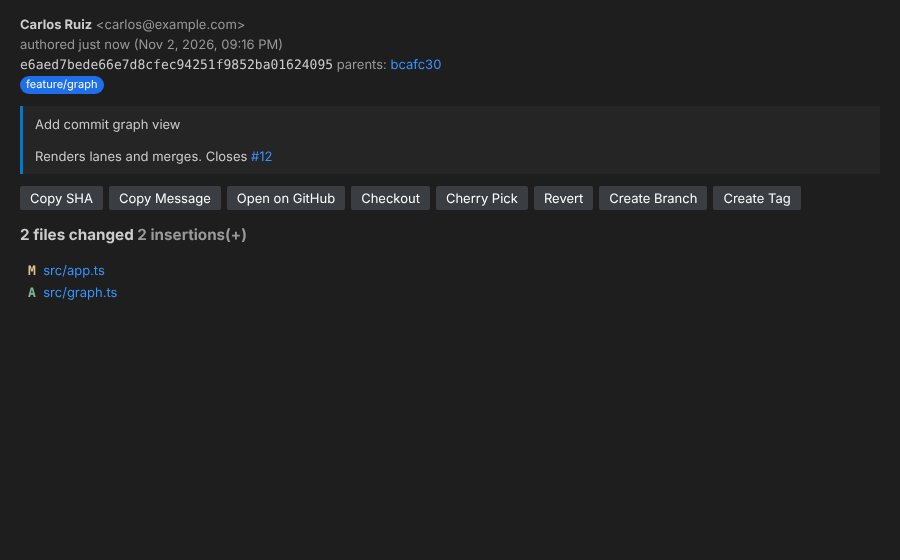
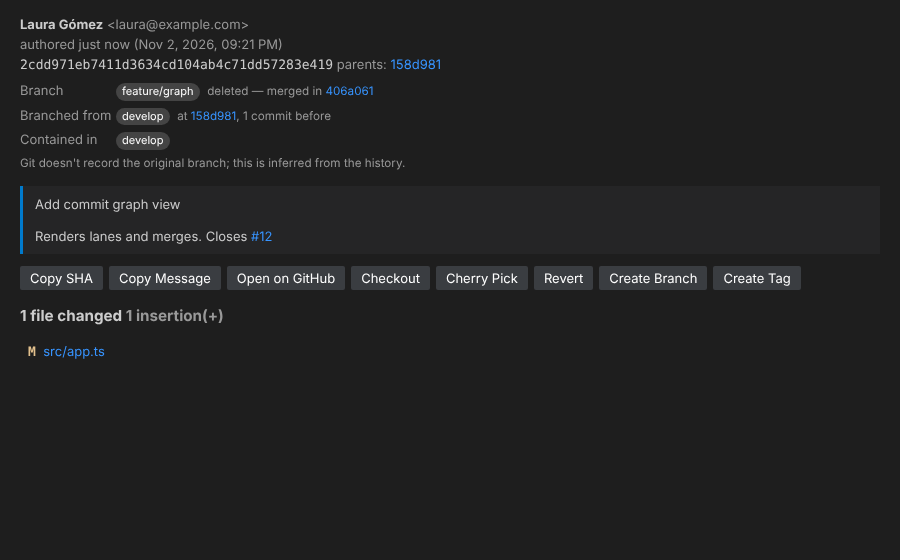
Show the branch a commit was made on and the branch it branched from
The commit details panel now shows, inferred from first-parent history:
the branch the commit was made on (recovering deleted branch names from
merge messages), the branch it branched from with the fork commit, and
all branches containing it. Base branches are configurable through
gitsight.baseBranches.

Claude-Session: https://claude.ai/code/session_01MnCBt8QwRY5VXLYsNptWFx

diff --git a/src/git/gitService.ts b/src/git/gitService.ts
@@ -227,6 +227,92 @@ export class Repository {
     return parseWorktrees(await this.exec(['worktree', 'list', '--porcelain']));
   }
 
+  /**
+   * Estimates which branch a commit was made on and which branch it was branched from.
+   * Git does not record this, so it is inferred from first-parent histories:
+   *  - a commit on a base branch's (main, develop…) first-parent chain was committed directly there;
+   *  - otherwise, the branches whose first-parent chain contains it are where it was made, and the
+   *    branch whose first-parent chain meets its ancestry closest is where that work branched from;
+   *  - if the branch was deleted after merging, its name is recovered from the merge commit message.
+   */
+  async branchOrigin(sha: string, baseBranches: string[] = DEFAULT_BASE_BRANCHES): Promise<BranchOrigin> {
+    const LIMIT = 20000;
+    const [locals, remotes] = await Promise.all([this.branches(false), this.branches(true)]);
+    const localNames = new Set(locals.map((b) => b.name));
+    const shortName = (b: Branch) => (b.remote ? b.name.substring(b.name.indexOf('/') + 1) : b.name);
+    const candidates = [...locals, ...remotes.filter((b) => !localNames.has(shortName(b)))].slice(0, 60);
+    const priority = (b: Branch) => {
+      const i = baseBranches.indexOf(shortName(b));
+      return i === -1 ? Number.MAX_SAFE_INTEGER : i;
+    };
+    const isBase = (b: Branch) => priority(b) !== Number.MAX_SAFE_INTEGER;
+    const byPriority = (a: Branch, b: Branch) => priority(a) - priority(b) || Number(b.remote === false) - Number(a.remote === false);
+
+    const firstParents = new Map<string, Set<string>>();
+    await Promise.all(
+      candidates.map(async (b) => {
+        const out = await this.exec(['rev-list', '--first-parent', `-n${LIMIT}`, b.name, '--']).catch(() => '');
+        firstParents.set(b.name, new Set(out.split('\n').filter(Boolean)));
+      }),
+    );
+    const ancestors = (await this.exec(['rev-list', '--topo-order', `-n${LIMIT}`, sha, '--'])).split('\n').filter(Boolean);
+    const containedIn = (await this.exec(['for-each-ref', '--contains', sha, '--format=%(refname)', 'refs/heads', 'refs/remotes']).catch(() => ''))
+      .split('\n')
+      .filter((r) => r && !r.endsWith('/HEAD'))
+      .map((r) => r.replace(/^refs\/(heads|remotes)\//, ''));
+
+    const onFirstParent = candidates.filter((b) => firstParents.get(b.name)?.has(sha));
+    const base = onFirstParent.filter(isBase).sort(byPriority);
+    const result: BranchOrigin = { createdOn: [], containedIn };
+    if (base.length) {
+      result.committedOn = base[0].name;
+      return result;
+    }
+    result.createdOn = onFirstParent.map((b) => b.name).slice(0, 3);
+
+    // Branch point: the closest ancestor that lies on another branch's first-parent chain.
+    let best = Number.MAX_SAFE_INTEGER;
+    let bestBranches: Branch[] = [];
+    for (const b of candidates) {
+      if (onFirstParent.includes(b)) continue;
+      const fp = firstParents.get(b.name)!;
+      const idx = ancestors.findIndex((a, i) => i > 0 && fp.has(a));
+      if (idx === -1) continue;
+      if (idx < best) {
+        best = idx;
+        bestBranches = [b];
+      } else if (idx === best) {
+        bestBranches.push(b);
+      }
+    }
+    if (bestBranches.length) {
+      bestBranches.sort(byPriority);
+      const forkSha = ancestors[best];
+      const distance = parseInt((await this.exec(['rev-list', '--count', `${forkSha}..${sha}`]).catch(() => '0')).trim(), 10) || best;
+      result.branchedFrom = { branches: bestBranches.slice(0, 3).map((b) => b.name), sha: forkSha, distance };
+    }
+
+    // Branch deleted after merge: recover its name from the merge that brought the commit in.
+    if (!result.createdOn.length && containedIn.length) {
+      const target = candidates.filter((b) => containedIn.includes(b.name)).sort(byPriority)[0];
+      if (target) {
+        // Merges that descend from the commit, intersected with the target's first-parent chain:
+        // the oldest one is the merge that brought the commit into the target branch.
+        const descendants = new Set(
+          (await this.exec(['rev-list', '--ancestry-path', '--merges', `${sha}..${target.name}`, '--']).catch(() => '')).split('\n').filter(Boolean),
+        );
+        let mergeSha: string | undefined;
+        for (const s of firstParents.get(target.name) ?? []) if (descendants.has(s)) mergeSha = s;
+        if (mergeSha) {
+          const subject = (await this.exec(['log', '-n1', '--format=%s', mergeSha, '--']).catch(() => '')).trim();
+          const name = parseMergedBranch(subject);
+          if (name) result.inferredFrom = { branch: name, mergeSha };
+        }
+      }
+    }
+    return result;
+  }
+
   async contributors(): Promise<Contributor[]> {
     const out = await this.exec(['shortlog', '-sne', 'HEAD']).catch(() => '');
     return parseShortlog(out);
@@ -292,6 +378,37 @@ export class Repository {
     }
     return { added, modified, deleted };
   }
+}
+
+export const DEFAULT_BASE_BRANCHES = ['main', 'master', 'trunk', 'develop', 'development', 'dev'];
+
+export interface BranchOrigin {
+  /** set when the commit was made directly on a base branch (main, develop…) */
+  committedOn?: string;
+  /** non-base branches whose first-parent history contains the commit */
+  createdOn: string[];
+  /** branch name recovered from a merge message when the branch no longer exists */
+  inferredFrom?: { branch: string; mergeSha: string };
+  /** where the work branched off */
+  branchedFrom?: { branches: string[]; sha: string; distance: number };
+  /** every branch that contains the commit */
+  containedIn: string[];
+}
+
+/** Extracts the source branch from common merge commit subjects. */
+export function parseMergedBranch(subject: string): string | undefined {
+  const patterns = [
+    /^Merge pull request #\d+ from [^/\s]+\/(\S+)/,
+    /^Merge branch '([^']+)'/,
+    /^Merge remote-tracking branch '(?:[^/']+\/)?([^']+)'/,
+    /^Merged? (?:in )?(\S+) (?:into|to) \S+/i,
+    /^Merged PR \d+: .*?from (\S+)/i,
+  ];
+  for (const re of patterns) {
+    const m = re.exec(subject);
+    if (m) return m[1];
+  }
+  return undefined;
 }
 
 const repoCache = new Map<string, Promise<Repository | undefined>>();

diff --git a/src/webviews/commitDetails.ts b/src/webviews/commitDetails.ts
@@ -61,6 +61,7 @@ export class CommitDetailsPanel {
     }</div>
     <div class="sha"><code>${commit.sha}</code> ${parents ? `<span class="muted">parents:</span> ${parents}` : ''}</div>
     <div class="refs">${refs}</div>
+    <div id="origin" class="origin muted">Finding branch…</div>
   </div>
   <pre class="message">${message}</pre>
   <div class="actions">
@@ -89,8 +90,14 @@ export class CommitDetailsPanel {
   .st-M { color: var(--vscode-gitDecoration-modifiedResourceForeground); }
   .st-D { color: var(--vscode-gitDecoration-deletedResourceForeground); }
   .st-R, .st-C { color: var(--vscode-gitDecoration-renamedResourceForeground); }
-  code { font-family: var(--vscode-editor-font-family); }`;
+  code { font-family: var(--vscode-editor-font-family); }
+  .origin { margin-top: 6px; line-height: 1.9; }
+  .origin .label { display: inline-block; min-width: 96px; color: var(--vscode-descriptionForeground); }
+  .origin .hint { font-size: 0.9em; }`;
     const script = `
+window.addEventListener('message', (e) => {
+  if (e.data.type === 'origin') document.getElementById('origin').innerHTML = e.data.html;
+});
 document.addEventListener('click', (e) => {
   const t = e.target.closest('[data-i],[data-action],[data-sha]');
   if (!t) return;
@@ -102,6 +109,48 @@ document.addEventListener('click', (e) => {
 
     this.files = files.map((f) => new FileChangeNode(repo, f, sha, commit.parents.length ? undefined : 'EMPTY'));
     this.ctx = ctx;
+    void this.loadOrigin(repo, sha);
+  }
+
+  private static async loadOrigin(repo: Repository, sha: string): Promise<void> {
+    const badge = (name: string) => `<span class="badge">${escapeHtml(name)}</span>`;
+    const commitLink = (s: string) => `<a data-sha="${s}">${s.substring(0, 7)}</a>`;
+    let html: string;
+    try {
+      const configured = config<string[]>('baseBranches');
+      const o = await repo.branchOrigin(sha, configured?.length ? configured : undefined);
+      const rows: string[] = [];
+      if (o.committedOn) {
+        rows.push(`<span class="label">Branch</span>${badge(o.committedOn)} <span class="hint">committed directly on this branch</span>`);
+      } else {
+        if (o.createdOn.length) {
+          rows.push(`<span class="label">Branch</span>${o.createdOn.map(badge).join('')}`);
+        } else if (o.inferredFrom) {
+          rows.push(
+            `<span class="label">Branch</span>${badge(o.inferredFrom.branch)} <span class="hint">deleted — merged in ${commitLink(o.inferredFrom.mergeSha)}</span>`,
+          );
+        }
+        if (o.branchedFrom) {
+          const b = o.branchedFrom;
+          rows.push(
+            `<span class="label">Branched from</span>${b.branches.map(badge).join('')} <span class="hint">at ${commitLink(b.sha)}, ${b.distance} commit${
+              b.distance === 1 ? '' : 's'
+            } before${b.branches.length > 1 ? ' (these branches pointed to the same commit)' : ''}</span>`,
+          );
+        }
+      }
+      if (o.containedIn.length) {
+        const shown = o.containedIn.slice(0, 6).map(badge).join('');
+        const more = o.containedIn.length > 6 ? ` <span class="hint">+${o.containedIn.length - 6} more</span>` : '';
+        rows.push(`<span class="label">Contained in</span>${shown}${more}`);
+      } else {
+        rows.push(`<span class="label">Contained in</span><span class="hint">no branch (only reachable from tags, stashes or the reflog)</span>`);
+      }
+      html = rows.join('<br>') + (o.committedOn ? '' : `<br><span class="hint">Git doesn't record the original branch; this is inferred from the history.</span>`);
+    } catch {
+      html = '';
+    }
+    if (this.panel && this.state?.sha === sha) await this.panel.webview.postMessage({ type: 'origin', html });
   }
 
   private static files: FileChangeNode[] = [];

diff --git a/src/test/core.test.ts b/src/test/core.test.ts
@@ -4,7 +4,7 @@ import * as fs from 'fs';
 import * as os from 'os';
 import * as path from 'path';
 import { execFileSync } from 'child_process';
-import { Repository } from '../git/gitService';
+import { Repository, parseMergedBranch } from '../git/gitService';
 import { layoutGraph } from '../git/graphLayout';
 import { parseNameStatus, parseRemotes, parseShortlog, parseWorktrees } from '../git/parsers';
 import { getRemoteProvider, linkifyIssues, parseRemoteUrl } from '../git/remoteProviders';
@@ -205,6 +205,67 @@ test('date helpers', () => {
   assert.equal(fromNow(now - 3 * 86400, now, 'en'), '3 days ago');
   assert.equal(fromNow(now - 10, now, 'en'), 'just now');
   assert.equal(mixColors('#000000', '#ffffff', 0.5), '#808080');
+});
+
+test('branch origin: where a commit was made and where it branched from', async () => {
+  const d = fs.mkdtempSync(path.join(os.tmpdir(), 'gitsight-origin-'));
+  const g = (...args: string[]) => execFileSync('git', args, { cwd: d }).toString().trim();
+  const commit = (msg: string) => {
+    fs.appendFileSync(path.join(d, 'f.txt'), msg + '\n');
+    g('add', '.');
+    g('commit', '-q', '-m', msg);
+    return g('rev-parse', 'HEAD');
+  };
+  g('init', '-q', '-b', 'main');
+  g('config', 'user.name', 'T');
+  g('config', 'user.email', 't@x.io');
+  g('config', 'commit.gpgsign', 'false');
+  const a = commit('A on main');
+  g('switch', '-q', '-c', 'develop');
+  const b = commit('B on develop');
+  g('switch', '-q', '-c', 'feature/login');
+  const c = commit('C on feature');
+  commit('D on feature');
+  g('switch', '-q', 'develop');
+  g('merge', '-q', '--no-ff', '--no-edit', 'feature/login');
+  g('branch', '-q', '-D', 'feature/login');
+  g('switch', '-q', '-c', 'feature/a', 'main');
+  const e = commit('E on feature/a');
+  g('switch', '-q', '-c', 'feature/b');
+  const f = commit('F on feature/b');
+  g('switch', '-q', 'main');
+  const r = new Repository(d);
+
+  assert.equal((await r.branchOrigin(a)).committedOn, 'main');
+  assert.equal((await r.branchOrigin(b)).committedOn, 'develop');
+
+  const oc = await r.branchOrigin(c);
+  assert.equal(oc.committedOn, undefined);
+  assert.deepEqual(oc.createdOn, []);
+  assert.equal(oc.inferredFrom?.branch, 'feature/login', 'deleted branch recovered from merge message');
+  assert.deepEqual(oc.branchedFrom?.branches, ['develop']);
+  assert.equal(oc.branchedFrom?.sha, b);
+  assert.equal(oc.branchedFrom?.distance, 1);
+  assert.deepEqual(oc.containedIn, ['develop']);
+
+  const of = await r.branchOrigin(f);
+  assert.deepEqual(of.createdOn, ['feature/b']);
+  assert.deepEqual(of.branchedFrom?.branches, ['feature/a']);
+  assert.equal(of.branchedFrom?.sha, e);
+
+  const oe = await r.branchOrigin(e);
+  assert.deepEqual(oe.createdOn.sort(), ['feature/a', 'feature/b']);
+  assert.deepEqual(oe.branchedFrom?.branches, ['main', 'develop'], 'ambiguous: A is on both main and develop');
+  assert.equal(oe.branchedFrom?.sha, a);
+  fs.rmSync(d, { recursive: true, force: true });
+});
+
+test('merge message parsing', () => {
+  assert.equal(parseMergedBranch("Merge branch 'feature/x' into develop"), 'feature/x');
+  assert.equal(parseMergedBranch('Merge pull request #42 from acme/fix/login-bug'), 'fix/login-bug');
+  assert.equal(parseMergedBranch("Merge remote-tracking branch 'origin/release/1.2'"), 'release/1.2');
+  assert.equal(parseMergedBranch('Merged PR 123: Add thing from feature/thing'), 'feature/thing');
+  assert.equal(parseMergedBranch('Fix typo'), undefined);
 });
 
 test.after(() => fs.rmSync(dir, { recursive: true, force: true }));

diff --git a/README.md b/README.md
@@ -8,6 +8,8 @@ GitSight es una extensión **gratuita y de código abierto (MIT)** inspirada en 
 
 ![Grafo de commits](docs/commit-graph.png)
 
+![Detalles del commit](docs/commit-details.png)
+
 ## Funcionalidades
 
 ### En el editor
@@ -37,7 +39,7 @@ Cada commit se expande para ver sus archivos; un clic abre el diff.
 Grafo interactivo con carriles de colores, merges, badges de ramas/tags/HEAD, filtro por texto, todas las ramas o solo la actual, paginación y acciones rápidas (checkout, crear rama, cherry-pick, copiar SHA). Clic en un commit → panel de detalles.
 
 ### Panel de detalles del commit
-Autor, committer, fechas, padres navegables, mensaje con enlaces a issues, estadísticas y lista de archivos (clic = diff), y botones para copiar SHA/mensaje, abrir en remoto, checkout, cherry-pick, revert, crear rama o tag.
+Autor, committer, fechas, padres navegables, **rama en la que se hizo el commit y rama de la que partió** (por ejemplo `feature/login` → partió de `develop`, incluso si la rama ya se borró tras el merge), ramas que lo contienen, mensaje con enlaces a issues, estadísticas y lista de archivos (clic = diff), y botones para copiar SHA/mensaje, abrir en remoto, checkout, cherry-pick, revert, crear rama o tag.
 
 ### Comparaciones y navegación
 - Abrir cambios con la revisión anterior (`Alt+,`), con el archivo de trabajo, con cualquier revisión o con cualquier rama/tag.
@@ -85,6 +87,7 @@ Todo está también en la paleta de comandos (`GitSight: …`) y en el menú con
 | `gitsight.heatmap.hotColor` / `coldColor` | `#f66a0a` / `#0a60f6` | Colores del heatmap |
 | `gitsight.heatmap.ageThresholdDays` | `90` | Días para considerar un cambio "caliente" |
 | `gitsight.views.maxCommits` | `200` | Commits cargados por página |
+| `gitsight.baseBranches` | `["main","master","trunk","develop","development","dev"]` | Ramas principales, por prioridad, usadas para deducir de qué rama partió cada commit |
 | `gitsight.remotes.custom` | `[]` | Proveedores para dominios propios |
 
 ## Instalación

diff --git a/CHANGELOG.md b/CHANGELOG.md
@@ -1,5 +1,10 @@
 # Changelog
 
+## Unreleased
+
+- Detalles del commit: muestra la rama donde se hizo el commit, la rama de la que partió (con el commit de origen) y las ramas que lo contienen. Recupera el nombre de ramas borradas a partir del mensaje del merge.
+- Corregido el recuento de archivos duplicado en las estadísticas del commit.
+
 ## 0.1.0
 
 - Primera versión: blame en línea y barra de estado, hovers, CodeLens, anotaciones de archivo (blame, heatmap, cambios), vistas de Commits, Historial de archivo, Historial de líneas, Ramas, Remotos, Tags, Stashes, Worktrees, Contribuidores y Búsqueda/Comparación, grafo de commits interactivo, panel de detalles de commit, enlaces a GitHub/GitLab/Bitbucket/Azure DevOps/Gitea y acciones Git (checkout, merge, rebase, cherry-pick, revert, reset, tags, stash, worktrees).
